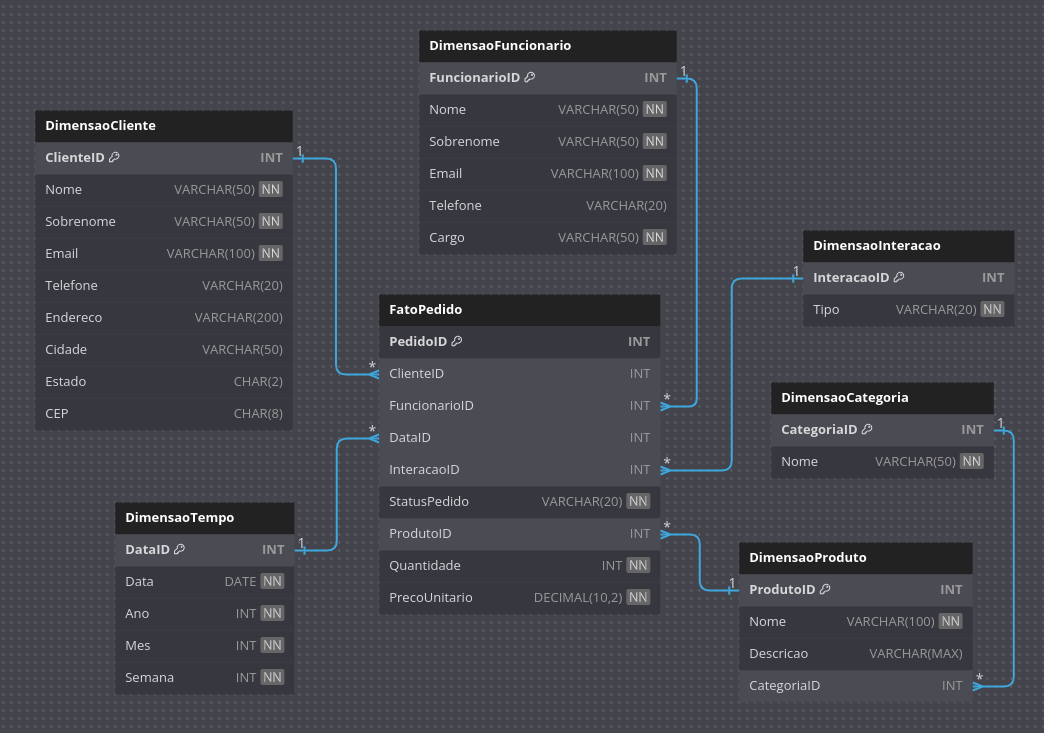
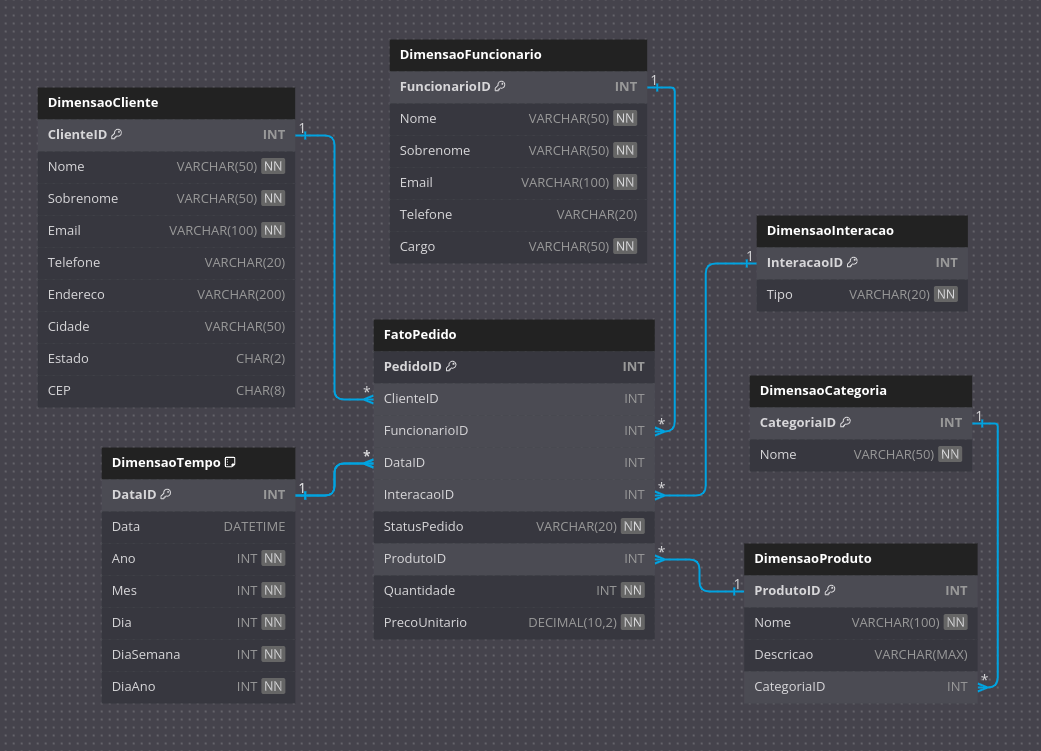
Atualizada atividade de ETL em base de dados CRM

diff --git a/etl-crm/README.md b/etl-crm/README.md
@@ -362,11 +362,14 @@ CREATE TABLE DimensaoFuncionario (
 5. Dimensão de Tempo (Datas)
 ```sql
 CREATE TABLE DimensaoTempo (
-    DataID INT PRIMARY KEY,
-    Data DATE NOT NULL,
+    DataID INT IDENTITY(1,1) PRIMARY KEY,
+    Data DATETIME,
     Ano INT NOT NULL,
     Mes INT NOT NULL,
-    Semana INT NOT NULL
+    Dia INT NOT NULL,
+    DiaSemana INT NOT NULL,
+    DiaAno INT NOT NULL,
+    CONSTRAINT Unique_Date UNIQUE(Data)
 );
 ```
 6. Dimensão de Interação
@@ -379,7 +382,7 @@ CREATE TABLE DimensaoInteracao (
 7. Fato de Pedido
 ```sql
 CREATE TABLE FatoPedido (
-    PedidoID INT PRIMARY KEY,
+    PedidoID INT IDENTITY(1,1) PRIMARY KEY,
     ClienteID INT FOREIGN KEY REFERENCES DimensaoCliente(ClienteID),
     FuncionarioID INT FOREIGN KEY REFERENCES DimensaoFuncionario(FuncionarioID),
     DataID INT FOREIGN KEY REFERENCES DimensaoTempo(DataID),
@@ -390,7 +393,93 @@ CREATE TABLE FatoPedido (
     PrecoUnitario DECIMAL(10,2) NOT NULL
 );
 ```
+### Importando os dados
+1. Dimensão de Cliente
+```sql
+INSERT INTO DimensaoCliente(ClienteID, Nome, Sobrenome, Email, Telefone, Endereco, Cidade, Estado, CEP)
+SELECT DISTINCT
+    ClienteID,
+    Nome,
+    Sobrenome,
+    Email,
+    Telefone,
+    Endereco,
+    Cidade,
+    Estado,
+    CEP
+FROM ODS_Clientes;
+```
+2. Dimensão de Categoria
+```sql
+INSERT INTO DimensaoCategoria(CategoriaID, Nome)
+SELECT DISTINCT
+    CategoriaID,
+    Nome
+FROM ODS_Categorias;
+```
+3. Dimensão de Produto
+```sql
+INSERT INTO DimensaoProduto(ProdutoID, Nome, Descricao, CategoriaID)
+SELECT DISTINCT
+    OP.ProdutoID,
+    OP.Nome,
+    OP.Descricao,
+    OPC.CategoriaID
+FROM ODS_Produtos OP JOIN ODS_ProdutoCategoria OPC ON OP.ProdutoID = OPC.ProdutoID;
+```
+4. Dimensão de Funcionário
+```sql
+INSERT INTO DimensaoFuncionario(FuncionarioID, Nome, Sobrenome, Email, Telefone, Cargo)
+SELECT DISTINCT
+    FuncionarioID,
+    Nome,
+    Sobrenome,
+    Email,
+    Telefone,
+    Cargo
+FROM ODS_Funcionarios;
+```
+5. Dimensão de Interação
+```sql
+INSERT INTO DimensaoInteracao(InteracaoID, Tipo)
+SELECT DISTINCT
+    InteracaoID,
+    Tipo
+FROM ODS_Interacoes;
+```
+6. Dimensão de Tempo
+```sql
+INSERT INTO DimensaoTempo(Data, Ano, Mes, Dia, DiaSemana, DiaAno)
+SELECT DISTINCT
+    CONVERT(DATE, DataPedido),
+    YEAR(DataPedido),
+    MONTH(DataPedido),
+    DAY(DataPedido),
+    DATEPART(WEEKDAY, DataPedido),
+    DATEPART(DAYOFYEAR, DataPedido)
+FROM ODS_Pedidos;
+```
+7. Fato de Pedido
+```sql
+INSERT INTO FatoPedido(ClienteID, FuncionarioID, DataID, InteracaoID, StatusPedido, ProdutoID, Quantidade, PrecoUnitario)
+SELECT DISTINCT
+    OC.ClienteID,
+    OI.FuncionarioID,
+    DT.DataID,
+    OI.InteracaoID,
+    OP.StatusPedido,
+    OIP.ProdutoID,
+    OIP.Quantidade,
+    OIP.PrecoUnitario
+FROM
+    ODS_Pedidos OP
+JOIN ODS_Clientes OC ON OP.ClienteID = OC.ClienteID
+JOIN DimensaoTempo DT ON OP.DataPedido = DT.Data
+JOIN ODS_Interacoes OI ON OP.ClienteID = OI.ClienteID
+JOIN ODS_ItensPedido OIP ON OP.PedidoID = OIP.PedidoID;
+```
+
 ### Resultado final
 ![Estrutura DW](images/image3.png)
 
-[Clique aqui](sql/db-crm-v3.sql) para visualizar o arquivo SQL do diagrama.
+> [Clique aqui](sql/db-crm-v3.sql) para copiar o SQL da estrutura, ou [clique aqui](sql/db-crm-data-import-dw.sql) para o SQL de importação.
